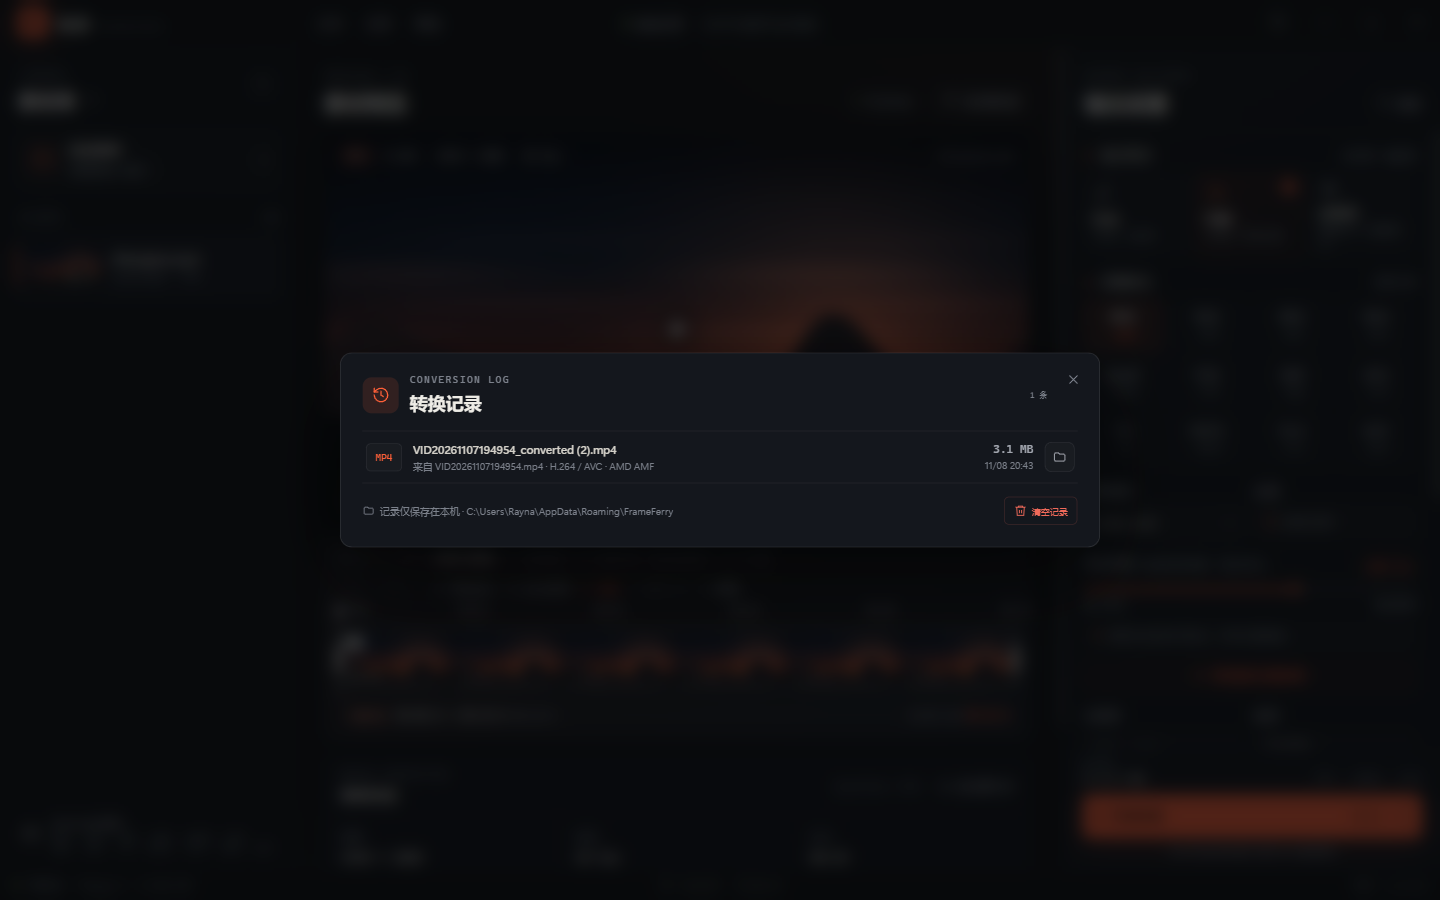
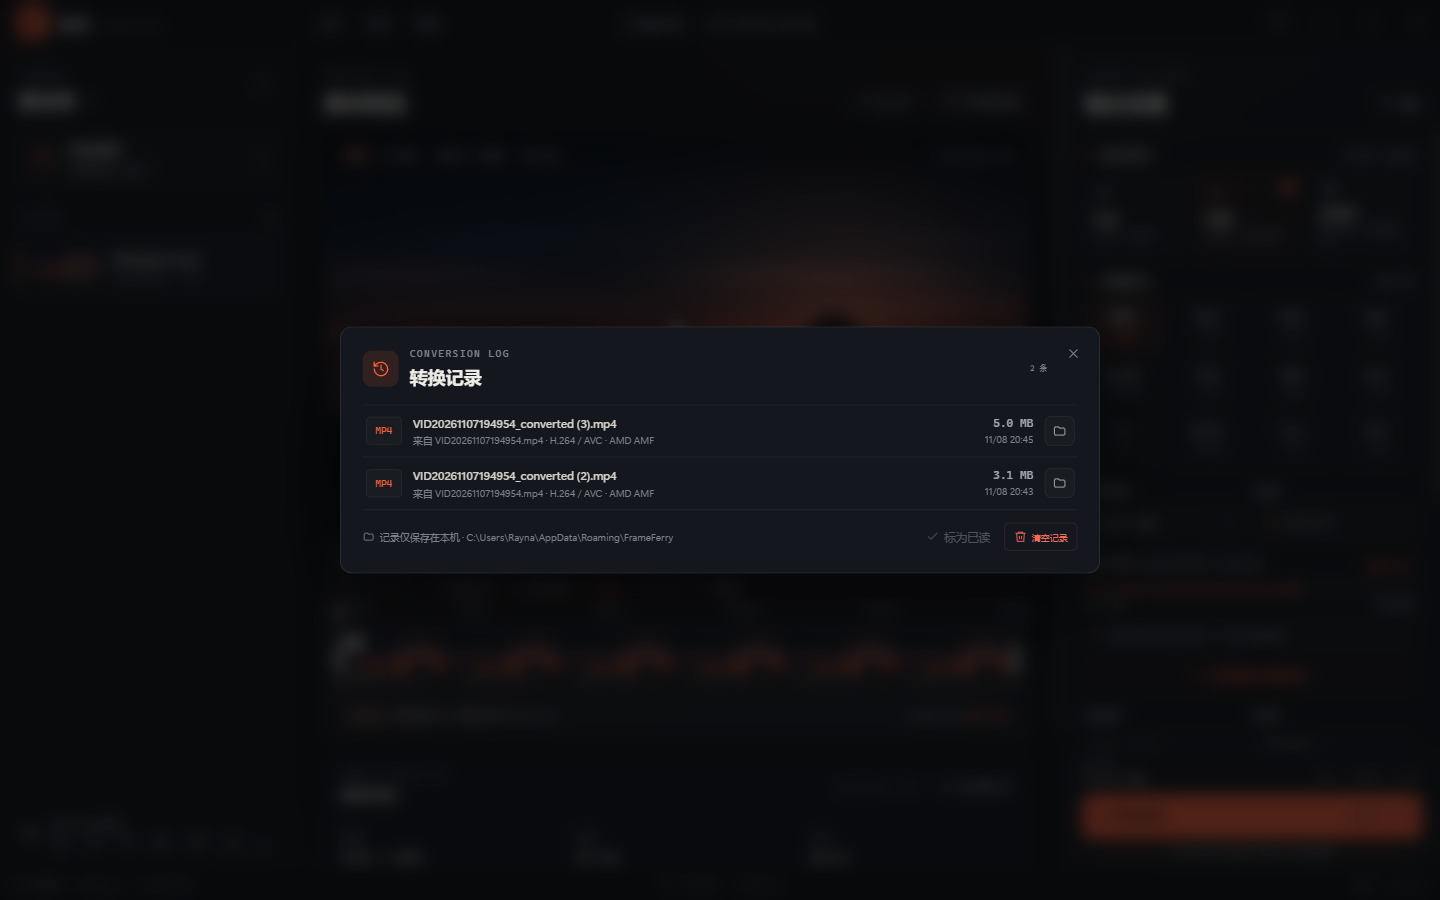
feat: 历史记录支持已读和清空两个操作
恢复未读角标，仅统计本次运行中新完成的记录；历史弹窗增加标为已读按钮，只清角标不清记录，清空记录仍单独保留。版本提升到 v1.8.33。

diff --git a/renderer/app.js b/renderer/app.js
@@ -334,6 +334,7 @@ const state = {
   outputEdited: false,
   jobs: [],
   history: [],
+  historyUnread: 0,
   starting: false,
   maxed: false,
   advancedOpen: false,
@@ -1673,6 +1674,11 @@ function renderTitleMeta() {
   $('#menu-job-status').textContent = running ? `正在处理 ${running.sourceName}` : '当前没有进行中的任务'
   $('#menu-job-dot').classList.toggle('is-busy', Boolean(running))
   $('#menu-history-count').textContent = String(state.history.length)
+  const historyBadge = $('#history-badge')
+  if (historyBadge) {
+    historyBadge.hidden = state.historyUnread <= 0
+    historyBadge.textContent = String(Math.min(state.historyUnread, 9))
+  }
 
   $('#menu-engine').textContent = state.bootstrap?.ffmpeg.ready ? '已就绪' : '异常'
   const showOutput = $('[data-action="show-output"]')
@@ -2027,7 +2033,7 @@ function historyModalHtml() {
     <button class="modal-close" aria-label="关闭">${icon('x', 15)}</button>
     <div class="modal-head"><span class="modal-icon">${icon('history', 18)}</span><div><span class="eyebrow">CONVERSION LOG</span><h2>转换记录</h2></div><span class="modal-head-meta">${state.history.length} 条</span></div>
     <div class="history-list">${rows || `<div class="history-empty">${icon('history', 24)}<strong>还没有转换记录</strong><span>完成的输出会保留在这里，方便再次找到文件。</span></div>`}</div>
-    <div class="modal-footer"><span class="modal-footnote">${icon('folder', 12)}记录仅保存在本机 · ${escapeHtml(state.bootstrap?.userData || '')}</span>${state.history.length ? `<button class="danger-button" id="clear-history">${icon('trash', 13)}清空记录</button>` : ''}</div>
+    <div class="modal-footer"><span class="modal-footnote">${icon('folder', 12)}记录仅保存在本机 · ${escapeHtml(state.bootstrap?.userData || '')}</span>${state.history.length ? `<div class="modal-footer-actions"><button class="text-button history-read-button" id="mark-history-read" ${state.historyUnread ? '' : 'disabled'}>${icon('check', 13)}标为已读</button><button class="danger-button" id="clear-history">${icon('trash', 13)}清空记录</button></div>` : ''}</div>
   </div></div>`
 }
 
@@ -2461,9 +2467,16 @@ function bindEvents() {
     if (event.target.closest('.modal-close')) { closeModal(); return }
     const open = event.target.closest('[data-history-open]')
     if (open) { void api.showItemInFolder(open.dataset.historyOpen); return }
+    if (event.target.closest('#mark-history-read')) {
+      state.historyUnread = 0
+      renderTitleMeta()
+      openModal('history')
+      return
+    }
     if (event.target.closest('#clear-history')) {
       void api.clearHistory().then(() => {
         state.history = []
+        state.historyUnread = 0
         renderTitleMeta()
         openModal('history')
       })
@@ -2586,7 +2599,14 @@ async function init() {
     $('#maximize-icon').innerHTML = icon(state.maxed ? 'copy' : 'square', 12)
     state.jobs = await api.listJobs()
     api.onJobsUpdate(handleJobs)
-    api.onHistoryUpdate((history) => { state.history = history; renderTitleMeta() })
+    const knownHistoryIds = new Set(state.history.map((entry) => entry.id))
+    api.onHistoryUpdate((history) => {
+      const fresh = history.filter((entry) => !knownHistoryIds.has(entry.id))
+      state.history = history
+      if (fresh.length && state.modal !== 'history') state.historyUnread += fresh.length
+      for (const entry of history) knownHistoryIds.add(entry.id)
+      renderTitleMeta()
+    })
     api.onOpenFiles((paths) => { void addFiles(paths) })
     renderTitleMeta()
     renderStatus()

diff --git a/renderer/index.html b/renderer/index.html
@@ -55,7 +55,7 @@
         </div>
 
         <div class="titlebar-actions">
-          <button class="titlebar-icon" id="history-button" title="转换记录"><span data-icon="history"></span></button>
+          <button class="titlebar-icon" id="history-button" title="转换记录"><span data-icon="history"></span><span class="icon-badge" id="history-badge" hidden>0</span></button>
           <div class="window-controls">
             <button class="window-btn" data-window="minimize" aria-label="最小化"><span data-icon="minus"></span></button>
             <button class="window-btn" data-window="maximize" aria-label="最大化"><span data-icon="square" id="maximize-icon"></span></button>

diff --git a/renderer/styles.css b/renderer/styles.css
@@ -4909,3 +4909,23 @@ input:focus-visible {
   font-family: var(--mono);
   font-size: 11.5px;
 }
+
+/* History read/clear actions */
+
+.modal-footer-actions {
+  display: flex;
+  align-items: center;
+  gap: 14px;
+}
+
+.history-read-button {
+  color: var(--muted);
+}
+
+.history-read-button:hover:not(:disabled) {
+  color: var(--text);
+}
+
+.history-read-button:disabled {
+  opacity: 0.4;
+}

diff --git a/docs/TEST_REPORT.md b/docs/TEST_REPORT.md
@@ -195,8 +195,9 @@
 | 文字统一 | 文件名/输出位置标题均为 12.5px；可修改/更改均为 11.5px |
 | 文件名框样式 | 中性填充框，灰色编辑图标在最左侧，扩展名在右侧；focus 只变中性边框，无橙色框 |
 | 图标颜色 | 编辑图标计算色 `rgb(124,129,139)`，不再使用橙色/强调色 |
-| 移除角标 | 历史按钮不再有红色数字角标，`#history-badge` 不存在 |
-| 记录保留 | state.history 仍为 1 条，历史弹窗显示 1 行记录 |
+| 未读角标 | 本次运行中新完成的记录会累加 unread，角标显示未读数（最多 9） |
+| 标为已读 | 弹窗底部有「标为已读」「清空记录」两个按钮；已读后 unread=0、角标隐藏 |
+| 记录保留 | 标为已读后 state.history 仍为 2 条，弹窗 2 行记录；只有清空记录才删除 |
 | Ctrl+滚轮缩放 | 1.25x 后可视 8.8s，标尺重排为 00:02/04/06/08；缩略图同步拉长 |
 | Shift+滚轮平移 | 向右平移后视图起点 2.2s，标尺变为 00:04–00:10 |
 | 横向滚动条 | 缩放后出现滑块，宽度按可视比例计算；点击轨道右侧后起点 2.2s，标尺变为 00:04–00:10 |
